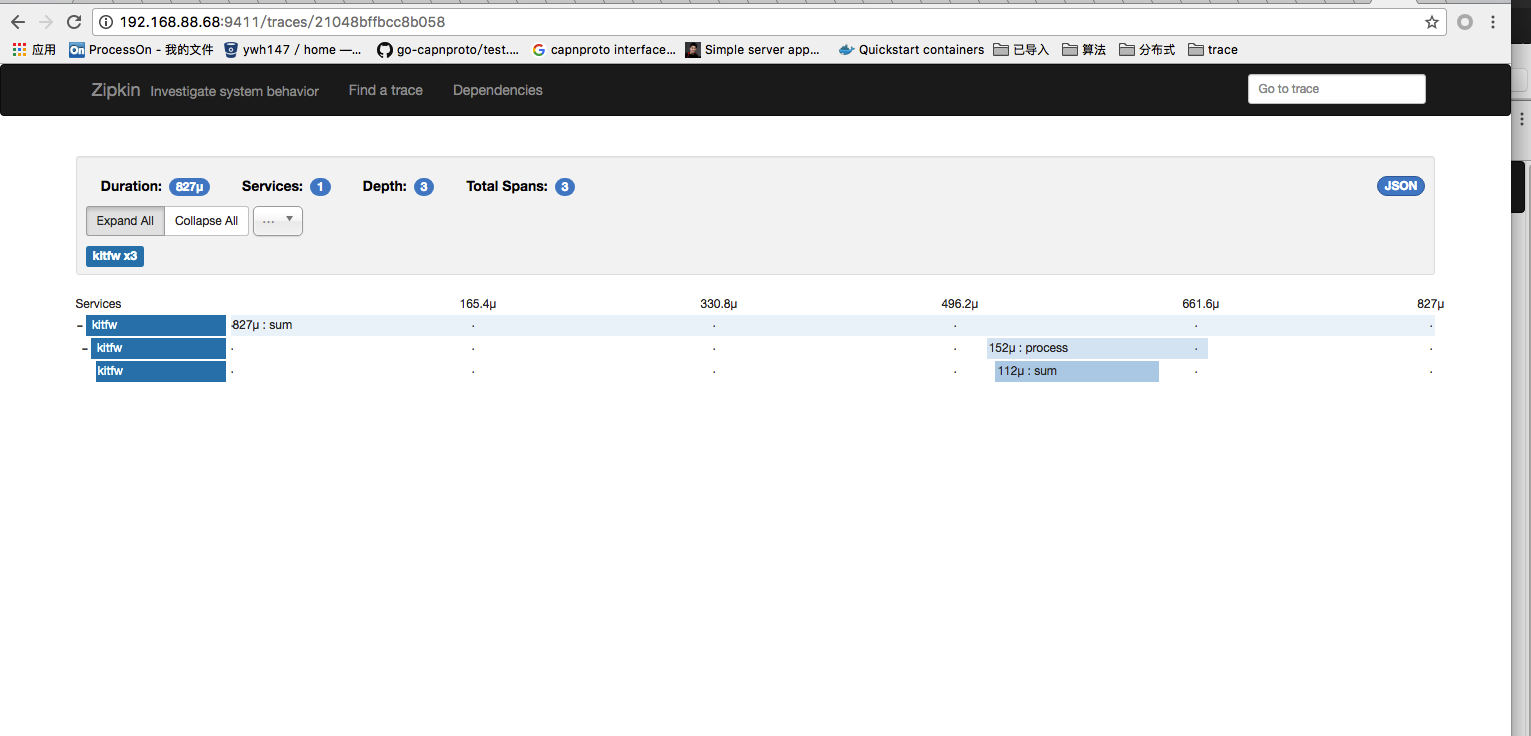
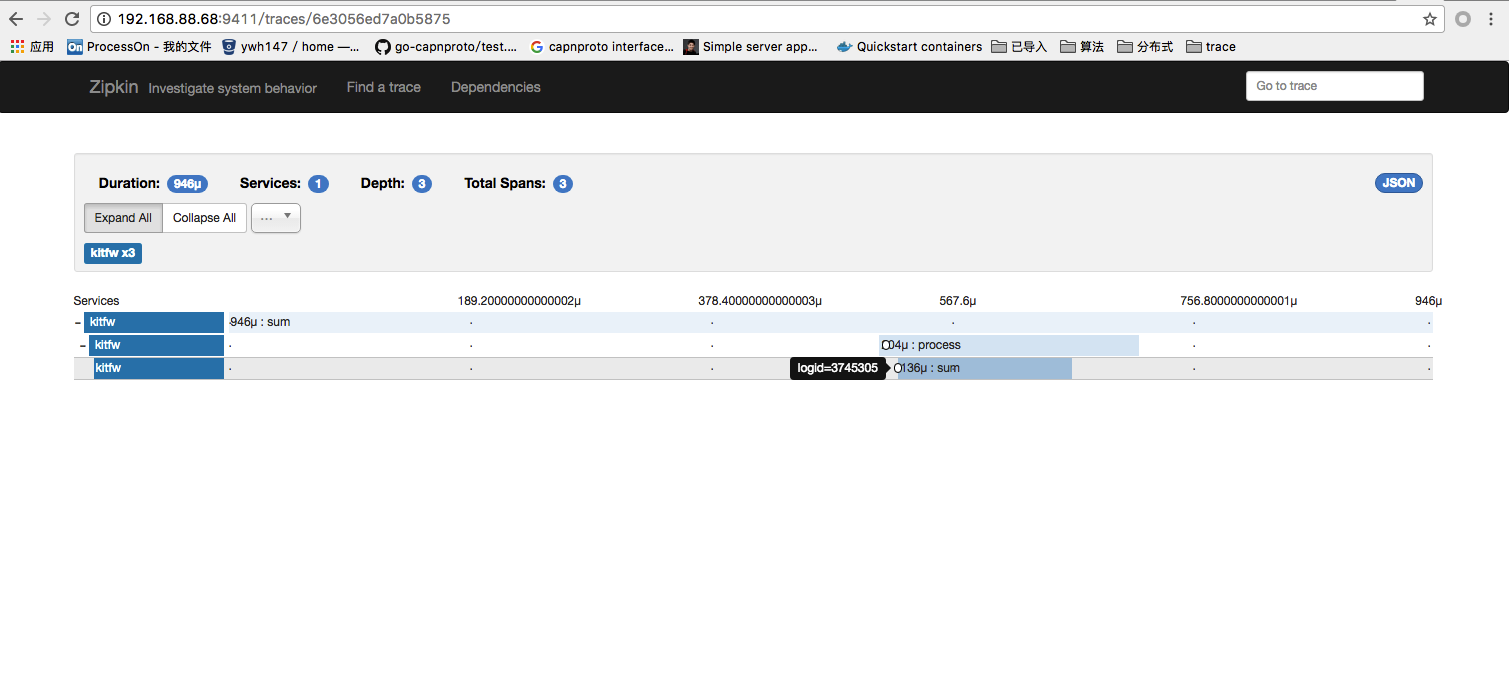
no message

diff --git a/src/kitfw/sg/client/main.go b/src/kitfw/sg/client/main.go
@@ -102,6 +102,9 @@ func concat(conn *grpc.ClientConn, tracer stdopentracing.Tracer, str1 string, st
 	md := metadata.New(map[string]string{"userid": fmt.Sprintf("%d", userid), "logid": logid})
 	// create a new context with this metadata
 	ctx := metadata.NewContext(context.Background(), md)
+	//ctx := context.Background()
+	//ctx = context.WithValue(ctx, "logid", logid)
+	//ctx = context.WithValue(ctx, "userid", userid)
 
 	//endpoint
 	sumendpoint := NewEndPoint(conn, tracer, logger.GetDefaultLogger(), "Concat")
@@ -143,6 +146,9 @@ func sum(conn *grpc.ClientConn, tracer stdopentracing.Tracer, num1 int64, num2 i
 	md := metadata.New(map[string]string{"userid": fmt.Sprintf("%d", userid), "logid": logid})
 	// create a new context with this metadata
 	ctx := metadata.NewContext(context.Background(), md)
+	//ctx := context.Background()
+	//ctx = context.WithValue(ctx, "logid", logid)
+	//ctx = context.WithValue(ctx, "userid", userid)
 
 	//endpoint
 	sumendpoint := NewEndPoint(conn, tracer, logger.GetDefaultLogger(), "Sum")

diff --git a/src/kitfw/sg/server/main.go b/src/kitfw/sg/server/main.go
@@ -18,9 +18,9 @@ import (
 	stdprometheus "github.com/prometheus/client_golang/prometheus"
 	"google.golang.org/grpc"
 
+	"kitfw/sg/define"
 	logger "kitfw/sg/log"
 	"kitfw/sg/pb"
-	kitfw/sg/define"
 	kitservice "kitfw/sg/service"
 
 	"github.com/go-kit/kit/endpoint"
@@ -40,8 +40,8 @@ func main() {
 
 	//log
 	logger.SetDefaultLogLevel(logger.LevelDebug)
-	logger.Info("msg", fmt.Sprintf("hello %s",define.SERVER_NAME))
-	defer logger.Info("msg", "goodbye %s",define.SERVER_NAME))
+	logger.Info("msg", fmt.Sprintf("hello %s", define.SERVER_NAME))
+	defer logger.Info("msg", fmt.Sprintf("goodbye %s", define.SERVER_NAME))
 
 	// Metrics domain.
 	fieldKeys := []string{"method", "protoid", "error"}
@@ -179,7 +179,7 @@ func main() {
 		}
 		// registrar
 		go func() {
-			key := fmt.Sprintf("%s/service/%s/",define.SERVER_NAME, *grpcAddr)
+			key := fmt.Sprintf("%s/service/%s/", define.SERVER_NAME, *grpcAddr)
 			registrar := sdetcd.NewRegistrar(etcdClient, sdetcd.Service{
 				Key:           key,
 				Value:         *grpcAddr,

diff --git a/src/kitfw/sg/client/client_endpoint.go b/src/kitfw/sg/client/client_endpoint.go
@@ -2,8 +2,11 @@
 package main
 
 import (
+	"context"
+
 	stdopentracing "github.com/opentracing/opentracing-go"
 	"google.golang.org/grpc"
+	"google.golang.org/grpc/metadata"
 
 	"kitfw/sg/pb"
 
@@ -31,8 +34,20 @@ func NewEndPoint(conn *grpc.ClientConn, tracer stdopentracing.Tracer, logger log
 			pb.DecodeGRPCProcessResponse,
 			pb.KitfwReply{},
 			grpctransport.ClientBefore(opentracing.ToGRPCRequest(tracer, logger)),
+			grpctransport.ClientBefore(RequestMetaDataFunc),
 		).Endpoint()
 		endpoint = opentracing.TraceClient(tracer, opname)(endpoint)
 	}
 	return endpoint
+}
+
+func RequestMetaDataFunc(ctx context.Context, md *metadata.MD) context.Context {
+	tmpmd, ok := metadata.FromContext(ctx)
+	// "ToGRPCRequest" will modify the md,so we just apennd
+	if ok {
+		for k, v := range tmpmd {
+			(*md)[k] = append((*md)[k], v...)
+		}
+	}
+	return ctx
 }

diff --git a/src/kitfw/sg/pb/endpoint.go b/src/kitfw/sg/pb/endpoint.go
@@ -51,7 +51,6 @@ func MakeProcessEndpoint(s kitfwService.Service, tracer stdopentracing.Tracer) e
 		if ok != true {
 			return nil, errors.New(fmt.Sprintf("error protoid:%d", q.Protoid))
 		}
-		_ = method
 		endpoint = TraceInternalService(tracer, method)(endpoint)
 		return endpoint(ctx, request)
 	}
@@ -103,6 +102,7 @@ func TraceInternalService(tracer stdopentracing.Tracer, operationName string) en
 				serviceSpan = tracer.StartSpan(operationName)
 			}
 			defer serviceSpan.Finish()
+			serviceSpan.LogKV("logid", ctx.Value("logid"))
 			otext.SpanKindRPCServer.Set(serviceSpan)
 			ctx = stdopentracing.ContextWithSpan(ctx, serviceSpan)
 			return next(ctx, request)

diff --git a/src/kitfw/sg/pb/transport_grpc.go b/src/kitfw/sg/pb/transport_grpc.go
@@ -54,10 +54,12 @@ func RequestMetaDataFunc(ctx context.Context, md metadata.MD) context.Context {
 	if userids, ok := md["userid"]; ok && len(userids) > 0 {
 		userid = userids[0]
 	}
+	logger.Info("logid", logid, "userid", userid)
 	rlogger := logger.NewLogger()
 	rlogger.SetLogLevel(logger.LevelDebug)
 	rlogger.With("logid", logid, "userid", userid)
 	ctx = context.WithValue(ctx, "logger", rlogger)
+	ctx = context.WithValue(ctx, "logid", logid)
 	return ctx
 }
 
